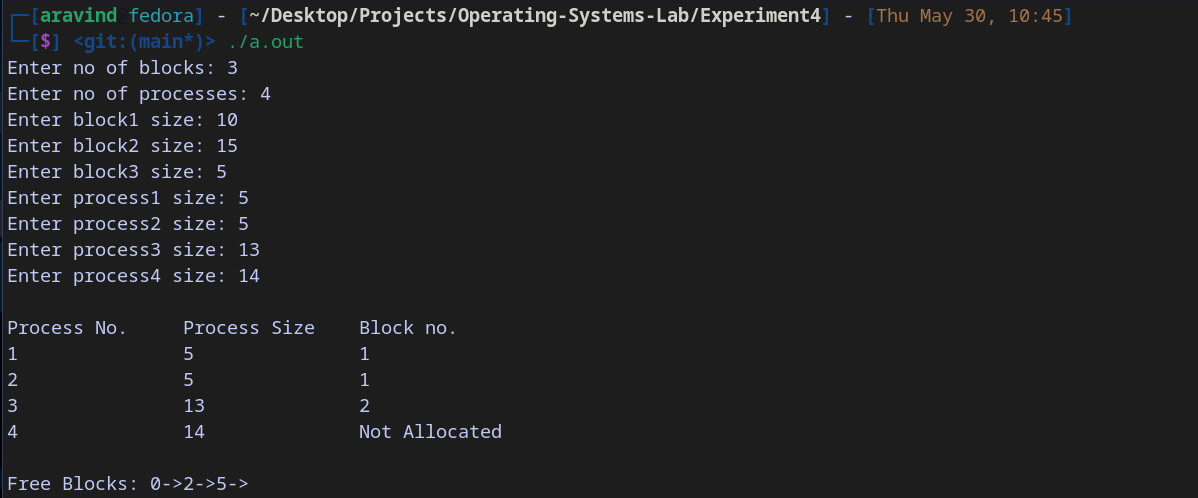
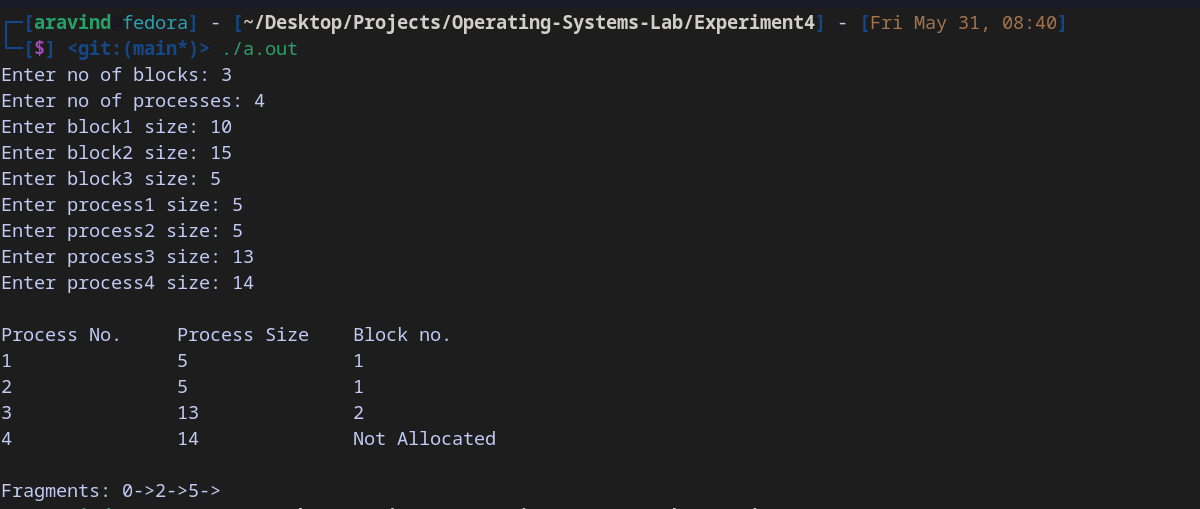
free blocks -> fragments

diff --git a/Experiment4/worst.c b/Experiment4/worst.c
@@ -28,7 +28,7 @@ void calcWorstFit(int no_of_blocks, int blocks[no_of_blocks], int no_of_process,
             printf("Not Allocated");
         printf("\n");
     }
-    printf("\nFree Blocks: ");
+    printf("\nFragments: ");
     for (int i = 0; i < no_of_blocks; i++) 
         printf("%d->",blocks[i]);
     printf("\n");

diff --git a/Experiment4/first.c b/Experiment4/first.c
@@ -25,7 +25,7 @@ void calcFirstFit(int no_of_blocks, int blocks[no_of_blocks], int no_of_process,
         printf("\n");
     }
 
-    printf("\nFree Blocks: ");
+    printf("\nFragments: ");
     for (int i = 0; i < no_of_blocks; i++)
         printf("%d->",blocks[i]);
     printf("\n");
